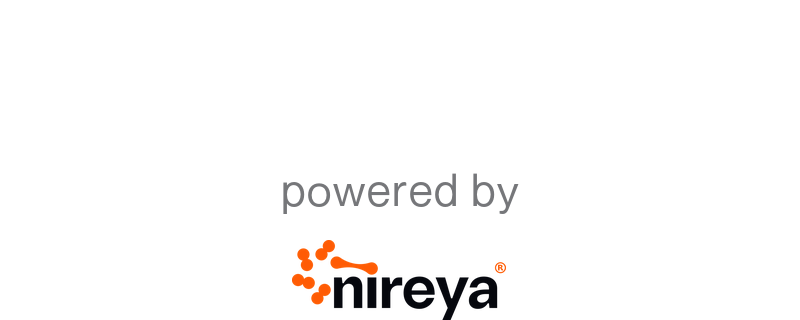
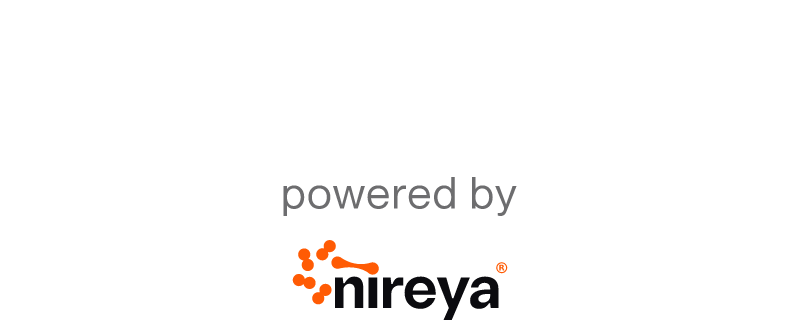
Nireya imzası 15 Kas kuralı: powered by %60, ® turuncu; iOS açılış simgesi 220→240 pt (görünen çizim imzanın 4,12 katı) (NKOS-UI-116)

Changed region(s): [[0.375, 0.7812, 0.6562, 0.9688], [0.3438, 0.5312, 0.6562, 0.6562]]

diff --git a/apps/loveizmir/plugins/with-nireya-imzasi.js b/apps/loveizmir/plugins/with-nireya-imzasi.js
@@ -1,5 +1,5 @@
 // Nireya imzası (NKOS-UI-116): açılış ekranının altında "powered by" + yatay Nireya logosu.
-// Görseller assets/images/nireya-imza/ altında hazır üretilir (11 pt yazı, %55 opaklık, 6 pt boşluk, 20 pt logo).
+// Görseller assets/images/nireya-imza/ altında hazır üretilir (11 pt yazı, %60 opaklık, ® turuncu, 6 pt boşluk, 20 pt logo; araclar/nireya-imza/uret.mjs --zemin acik).
 // iOS: SplashScreen.storyboard'a ikinci görsel; alt kenarı güvenli alanın 32 pt üstünde, yatayda ortada.
 // Android 12+: Theme.App.SplashScreen › android:windowSplashScreenBrandingImage (200x80 dp tuval, imza altta).
 // expo-splash-screen storyboard kısıtlarını yeniden yazdığı için iki taraf da "finalized" aşamasında, en sonda uygulanır.
